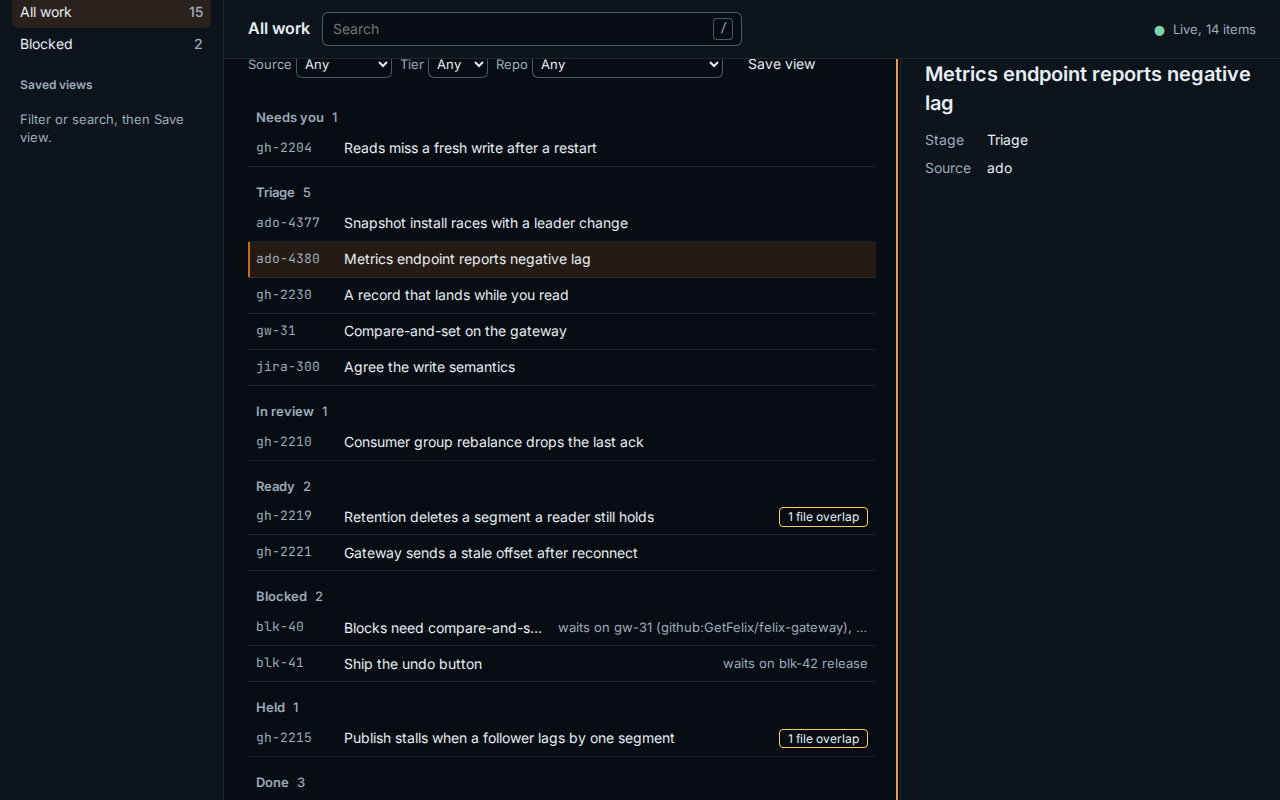
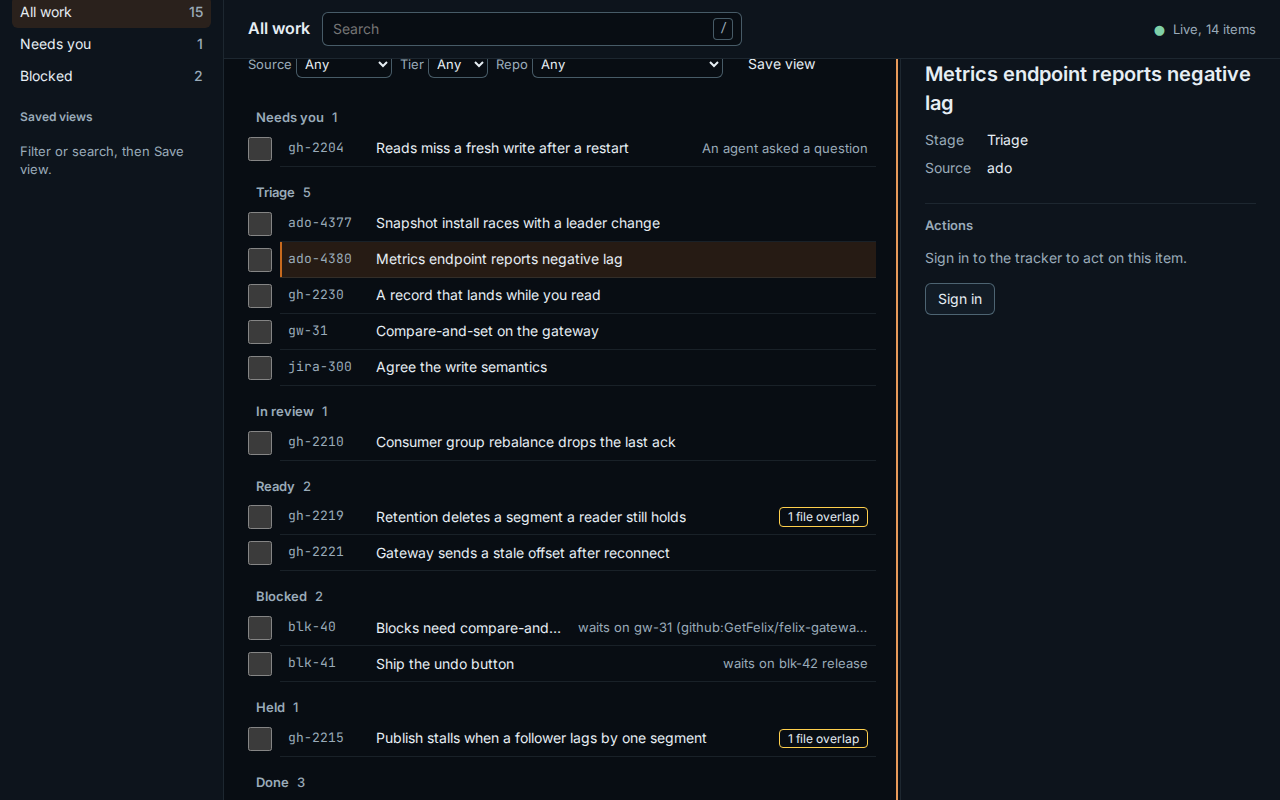
Dashboard UX pass 3: writes from the dashboard
Accept, reject, tier, close and answer through the tracker's person routes with the
viewer's own token; multi-select with bulk actions, undo for tier changes, and the
Needs you inbox. An answer's text goes as content ({ text }), which the tracker requires.
Row checkboxes stay out of the Tab order so Tab still moves row to row.

diff --git a/dashboard/test/writes.test.ts b/dashboard/test/writes.test.ts
@@ -21,11 +21,16 @@ test('each action is offered only where the fold would take it', () => {
 
 test('requests are the tracker person routes, under the team when one is named', () => {
   assert.deepEqual(request('a', { kind: 'accept', tier: 2 }), { path: '/v1/work/proposals/accept', body: { item: 'a', tier: 2 } });
+  assert.deepEqual(request('a', { kind: 'accept', tier: null }), { path: '/v1/work/proposals/accept', body: { item: 'a' } });
+  assert.deepEqual(request('a', { kind: 'reject' }), { path: '/v1/work/proposals/reject', body: { item: 'a' } });
+  assert.deepEqual(request('a', { kind: 'tier', tier: 0 }), { path: '/v1/work/tier', body: { item: 'a', tier: 0 } });
   assert.deepEqual(request('a', { kind: 'close', why: 'dismissed' }), { path: '/v1/work/close', body: { item: 'a', why: 'dismissed' } });
   assert.deepEqual(request('a', { kind: 'answer', question: 4, text: '  ', chosen: 'rust' }), {
     path: '/v1/work/questions/answer',
     body: { item: 'a', question: 4, chosen: 'rust' },
   });
+  // Inline text is content, `{ text }`: a bare string is refused by the tracker.
+  assert.deepEqual(request('a', { kind: 'answer', question: 4, text: ' yes ', chosen: null }).body, { item: 'a', question: 4, text: { text: 'yes' } });
   assert.equal(route('/v1/work/tier', null), '/v1/work/tier');
   assert.equal(route('/v1/work/tier', 'a b'), '/v1/teams/a%20b/work/tier');
 });

diff --git a/dashboard/src/ui/write-dialogs.ts b/dashboard/src/ui/write-dialogs.ts
@@ -70,7 +70,7 @@ export function signInDialog(check: (token: string) => Promise<string | null>) {
   const m = modal('Sign in to the tracker', 'sign-in-dialog');
   m.el.setAttribute('aria-labelledby', 'sign-in-title');
   m.el.removeAttribute('aria-label');
-  const input = h('input', { id: 'tracker-token', type: 'password', class: 'field', autocomplete: 'off', spellcheck: 'false', required: true, 'aria-describedby': 'tracker-token-help tracker-token-error' });
+  const input = h('input', { id: 'tracker-token', type: 'password', class: 'field', autocomplete: 'off', spellcheck: 'false', 'aria-required': 'true', 'aria-describedby': 'tracker-token-help tracker-token-error' });
   const error = h('p', { id: 'tracker-token-error', class: 'field-error' });
   const go = h('button', { type: 'submit', class: 'button primary' }, 'Sign in');
   const form = h('form', { method: 'dialog' },

diff --git a/dashboard/src/ui/item-list.ts b/dashboard/src/ui/item-list.ts
@@ -94,11 +94,12 @@ export function itemList(
   const el = h('div', { class: 'list' });
   const rows = new Map<string, HTMLAnchorElement>();
   // One checkbox per row, beside its link (a control cannot sit inside a link), for bulk actions.
+  // Out of the Tab order so Tab still moves row to row, as in Linear and GitHub; X marks from the keyboard.
   const marks = new Map<string, HTMLInputElement>();
   const markBox = (id: string): HTMLInputElement => {
     let box = marks.get(id);
     if (!box) {
-      box = h('input', { type: 'checkbox', class: 'mark', 'data-mark': id, 'aria-label': `Select ${id}`, onchange: () => on.mark(id) });
+      box = h('input', { type: 'checkbox', class: 'mark', 'data-mark': id, 'aria-label': `Select ${id}`, tabindex: '-1', onchange: () => on.mark(id) });
       marks.set(id, box);
     }
     return box;

diff --git a/dashboard/src/writes.ts b/dashboard/src/writes.ts
@@ -69,7 +69,8 @@ export function request(item: string, a: WriteArgs): Request {
       return { path: '/v1/work/close', body: { item, why: a.why } };
     case 'answer': {
       const body: Record<string, unknown> = { item, question: a.question };
-      if (a.text.trim()) body.text = a.text.trim();
+      // The tracker reads `text` as content: inline text is `{ text }`, never a bare string.
+      if (a.text.trim()) body.text = { text: a.text.trim() };
       if (a.chosen !== null) body.chosen = a.chosen;
       return { path: '/v1/work/questions/answer', body };
     }

diff --git a/docs/design/dashboard-ux.md b/docs/design/dashboard-ux.md
@@ -106,7 +106,7 @@ page does and checks a message gets through, and CI runs the page itself in Chro
   why: no record takes back an acceptance, a rejected proposal stays rejected, a close cancels the item's
   open children (a reopened root goes back to Triage with them still cancelled), and an answer starts the
   work that resumes from it.
-- **Multi-select.** `X` marks the focused item, as in Linear and GitHub; each list row also has a checkbox
+- **Multi-select.** `X` marks the focused item, as in Linear and GitHub; each list row also has a checkbox for the mouse, kept out of the Tab order so Tab still moves row to row,
   beside its link, and board cards say Selected in text. The bulk bar counts the marks and offers only what
   some of them allow, with the count it applies to ("Accept 2…"). A bulk action is one call per item, in
   order, and the activity line reports each refusal. `Esc` clears the marks once nothing else is open.

diff --git a/dashboard/README.md b/dashboard/README.md
@@ -92,7 +92,7 @@ Claiming is not offered: it is an agent's, and the fold refuses `claimed` from a
 
 Each write shows as pending on the item and in the activity line above the work, then as written or refused.
 A refusal shows the tracker's reason and its code (`closed`, `not_open_question`, ...). The list itself changes
-only when the record arrives on the log. `X` marks the focused item (each list row also has a checkbox), and the
+only when the record arrives on the log. `X` marks the focused item (each list row also has a checkbox for the mouse), and the
 bulk bar acts on the marked items, one call per item; `Esc` clears the marks. The Needs you view
 (`?view=inbox`) lists what waits on a person and why.
 
